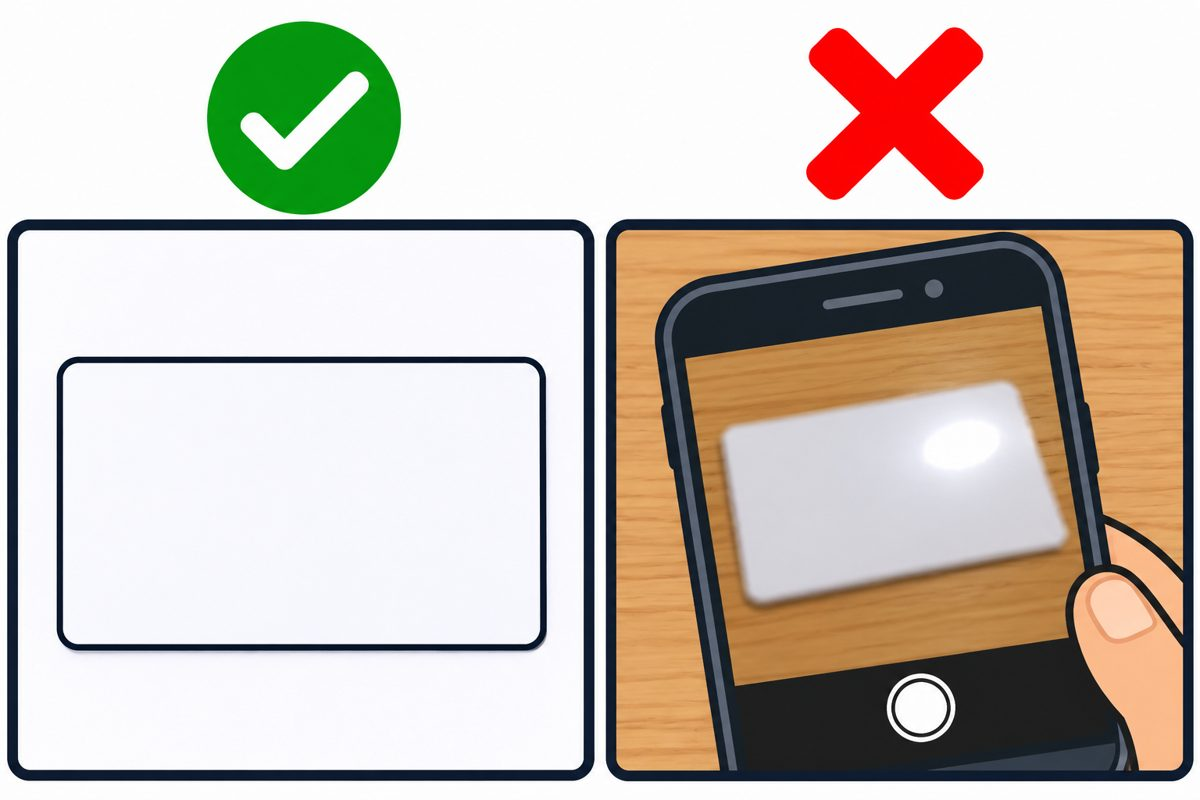
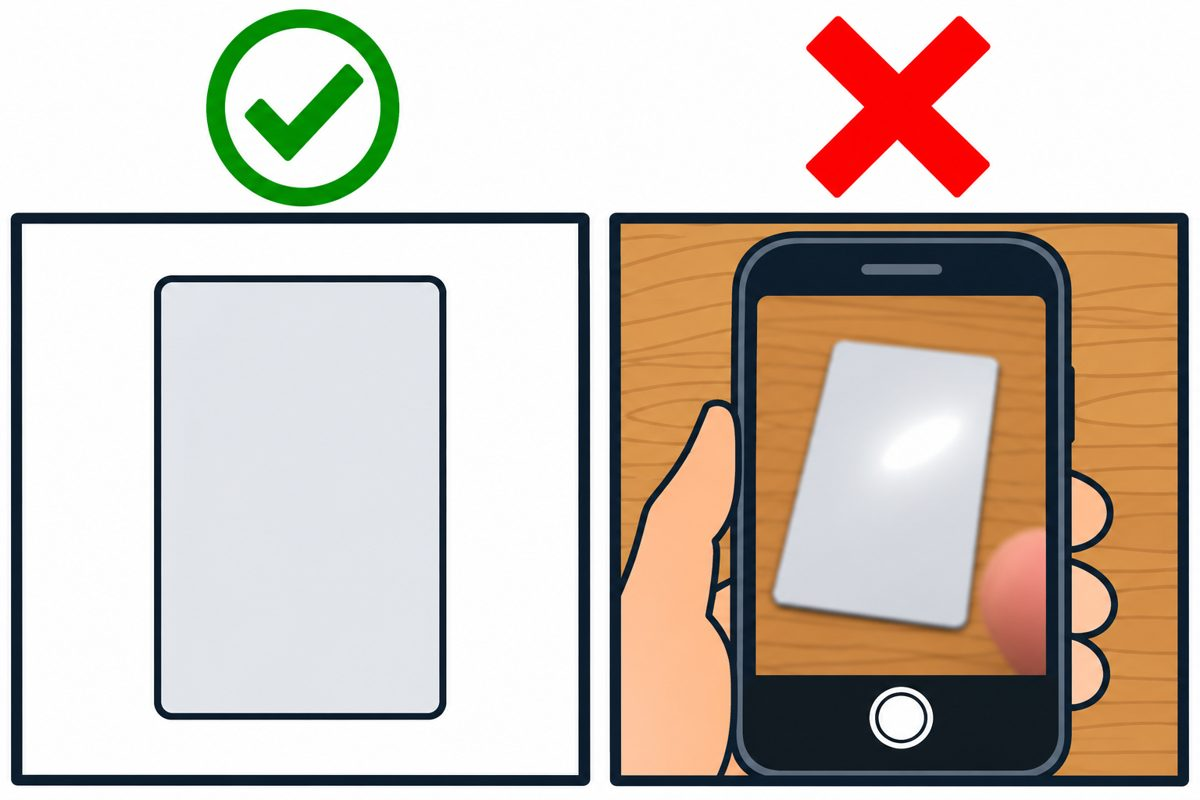
fix: 스캔 안내 — 매장 스캔 제외, 신분증 세로 방향, 메일 접수 버튼

diff --git a/scan.html b/scan.html
@@ -134,7 +134,7 @@
   </div>
 
   <h1>신분증 스캔,<br />이렇게 하시면 됩니다</h1>
-  <p class="lead">아래 순서대로 천천히 따라 해 주세요.<br />어려우시면 맨 아래 <b>전화 버튼</b>을 눌러 주세요.</p>
+  <p class="lead">아래 순서대로 천천히 따라 해 주세요.<br />다 되면 맨 아래 <b>보내기</b>에서 보내 주세요.</p>
 
   <ul class="toc">
     <li><a href="#find"><span class="n">1</span>스캐너 찾기</a></li>
@@ -149,11 +149,6 @@
     <p>버튼을 누르면 <b>지금 계신 곳 근처</b>를 지도에서 찾아 드려요.</p>
     <figure class="pic"><img src="assets/scan/scan-place.jpg" alt="무인 프린트카페의 복합기 옆에 선 어르신 그림" width="1200" height="800" loading="lazy" /><figcaption>예시 그림</figcaption></figure>
 
-    <div class="place best">
-      <h3>🏬 매장에 오시기 <span class="tag">가장 쉬워요</span></h3>
-      <p>신분증만 가져오시면 저희가 <b>1분 만에</b> 스캔해 드리고 바로 돌려드려요.</p>
-      <a class="btn-map" href="https://map.naver.com/p/search/%EB%8B%A4%EC%8F%9C%EB%8B%A4%20%EA%B4%91%EB%AA%85%EC%82%AC%EA%B1%B0%EB%A6%AC%EC%97%AD%EC%A0%90" target="_blank" rel="noopener">📍 매장 위치 보기</a>
-    </div>
 
     <div class="place">
       <h3>🖨 무인 프린트카페</h3>
@@ -178,7 +173,7 @@
 
     <div class="staff" id="staff">
       <strong>🙋 직원에게 보여주세요</strong>
-      <p class="say">"신분증 앞면을 <u>컬러, 300DPI 이상</u>, <u>A4 세로</u>로 스캔해서, 이 휴대폰으로 파일을 받고 싶어요."</p>
+      <p class="say">"신분증 앞면을 <u>세로로 놓고</u> <u>컬러, 300DPI 이상</u>으로 스캔해서, 이 휴대폰으로 파일을 받고 싶어요."</p>
     </div>
   </section>
 
@@ -193,9 +188,9 @@
         <p>'복사'가 아니라 <b>'스캔'</b>이에요. 결제 화면이 나오면 안내대로 결제해 주세요.</p>
       </li>
       <li>
-        <h3>뚜껑을 열고, 신분증 <b>앞면이 아래로</b> 가게 놓으세요</h3>
-        <p>유리판 <b>왼쪽 위 모서리</b>에 딱 맞춰 놓아 주세요. 신분증은 <b>평소 보는 방향 그대로</b> 놓으면 돼요.</p>
-        <figure class="pic"><img src="assets/scan/scan-place-card.jpg" alt="복합기 유리판 왼쪽 위 모서리에 카드를 앞면이 아래로 가게 놓는 그림" width="1200" height="800" loading="lazy" /><figcaption>예시 그림 · 앞면이 유리에 닿게, 왼쪽 위 모서리에</figcaption></figure>
+        <h3>뚜껑을 열고, 신분증을 <b>세로로 세워</b> <b>앞면이 아래로</b> 가게 놓으세요</h3>
+        <p>신분증을 <b>세로(길쭉하게 선 모양)</b>로 돌려서, 유리판 <b>왼쪽 위 모서리</b>에 딱 맞춰 놓아 주세요.</p>
+        <figure class="pic"><img src="assets/scan/scan-place-card.jpg" alt="복합기 유리판 왼쪽 위 모서리에 카드를 세로로, 앞면이 아래로 가게 놓는 그림" width="1200" height="800" loading="lazy" /><figcaption>예시 그림 · 세로로, 앞면이 유리에 닿게, 왼쪽 위 모서리에</figcaption></figure>
       </li>
       <li>
         <h3><b>뚜껑을 꼭 닫으세요</b></h3>
@@ -206,7 +201,7 @@
         <dl class="setting">
           <dt>해상도</dt><dd>300DPI 이상 (600도 좋아요)</dd>
           <dt>색상</dt><dd>컬러</dd>
-          <dt>방향</dt><dd>세로 (A4 세로)</dd>
+          <dt>방향</dt><dd>세로</dd>
           <dt>파일</dt><dd>PDF 또는 JPG</dd>
         </dl>
         <p class="warn">해상도는 'DPI' 또는 '화질'이라고 적혀 있어요. 모르겠으면 <b>가장 높은 값</b>을 고르세요.</p>
@@ -220,7 +215,7 @@
         <p>화면에 나오는 방법 중 편한 걸 고르세요.</p>
         <dl class="setting">
           <dt>QR코드</dt><dd>휴대폰 카메라로 찍으면 바로 받아져요</dd>
-          <dt>이메일</dt><dd>내 이메일 주소를 입력하세요</dd>
+          <dt>이메일</dt><dd>gwg2460@gmail.com 을 입력하면 저희에게 바로 보내져요</dd>
         </dl>
         <p class="warn">다 끝나면 <b>신분증을 꼭 챙기세요!</b> 유리판 위에 두고 가시는 분이 많아요.</p>
       </li>
@@ -230,13 +225,13 @@
   <!-- 3. 확인 -->
   <section class="part" id="check">
     <div class="part-head"><span class="part-num">3</span><h2>잘 됐는지 확인하기</h2></div>
-    <figure class="pic"><img src="assets/scan/scan-good-bad.jpg" alt="왼쪽은 반듯하게 스캔된 카드, 오른쪽은 휴대폰으로 비스듬히 찍어 빛이 반사된 카드" width="1200" height="800" loading="lazy" /><figcaption>예시 그림 · 왼쪽처럼 되면 성공</figcaption></figure>
+    <figure class="pic"><img src="assets/scan/scan-good-bad.jpg" alt="왼쪽은 세로로 반듯하게 스캔된 카드, 오른쪽은 휴대폰으로 비스듬히 찍어 빛이 반사된 카드" width="1200" height="800" loading="lazy" /><figcaption>예시 그림 · 왼쪽처럼 세로로 반듯하면 성공</figcaption></figure>
 
     <div class="compare">
       <div class="row ok"><span class="ic">✓</span>스캐너로 반듯하게, 글자가 또렷하게</div>
       <div class="row no"><span class="ic">✕</span>휴대폰으로 찍은 사진</div>
       <div class="row no"><span class="ic">✕</span>빛 반사 · 홀로그램 번짐</div>
-      <div class="row no"><span class="ic">✕</span>파일이 가로로 누움 · 비뚤어짐</div>
+      <div class="row no"><span class="ic">✕</span>신분증이 가로로 누움 · 비뚤어짐</div>
       <div class="row no"><span class="ic">✕</span>흐릿하거나 글자가 잘림</div>
     </div>
 
@@ -244,7 +239,7 @@
     <ul class="checks" id="checks">
       <li><label><input type="checkbox" /><span>이름 · 주민번호가 <b>다 읽혀요</b></span></label></li>
       <li><label><input type="checkbox" /><span>빛 번짐 없이 <b>깨끗해요</b></span></label></li>
-      <li><label><input type="checkbox" /><span>파일이 <b>세로</b>이고 글자가 <b>똑바로</b> 보여요</span></label></li>
+      <li><label><input type="checkbox" /><span>신분증이 <b>세로</b>로 반듯하게 나왔어요</span></label></li>
       <li><label><input type="checkbox" /><span>네 귀퉁이가 <b>다 보여요</b></span></label></li>
     </ul>
     <div class="all-ok" id="allOk">👍 잘 하셨어요! 이제 보내 주시면 됩니다</div>
@@ -253,9 +248,9 @@
   <!-- 4. 보내기 -->
   <section class="part" id="send">
     <div class="part-head"><span class="part-num">4</span><h2>보내기</h2></div>
-    <p>받으신 스캔 파일을 <b>카카오톡 상담창</b>으로 보내 주세요. 담당자가 확인하고 연락드릴게요.</p>
+    <p>받으신 스캔 파일을 <b>카카오톡 상담창</b>이나 <b>이메일</b>로 보내 주세요. 담당자가 확인하고 연락드릴게요.</p>
     <a class="btn btn-kakao" href="https://pf.kakao.com/_ZFSrX/chat" target="_blank" rel="noopener">💬 카카오톡으로 보내기</a>
-    <a class="btn btn-tel" href="tel:01052449992">📞 어려우면 전화 주세요 (010-5244-9992)</a>
+    <a class="btn btn-tel" href="mailto:gwg2460@gmail.com?subject=%EC%8B%A0%EB%B6%84%EC%A6%9D%20%EC%8A%A4%EC%BA%94%EB%B3%B8" style="flex-direction:column;gap:2px;padding:10px 12px;line-height:1.3">✉ 메일로 보내주세요<span style="font-size:.95rem;font-weight:700;color:#ffd2c0;overflow-wrap:anywhere">gwg2460@gmail.com</span></a>
     <button class="btn btn-share" type="button" id="shareBtn">🔗 이 안내 공유하기 (가족에게 보내기)</button>
   </section>
 
